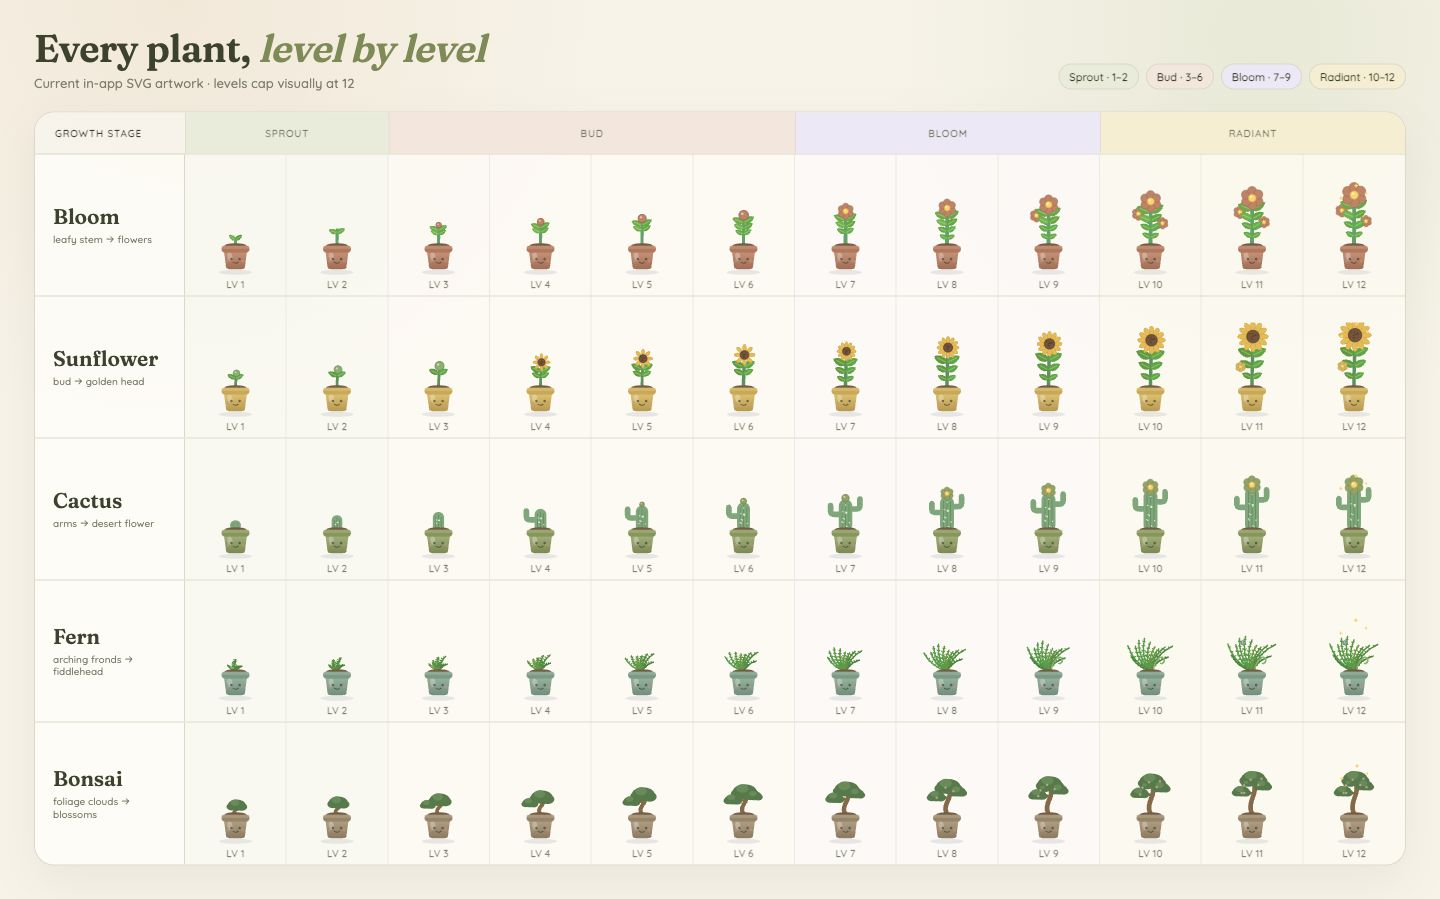
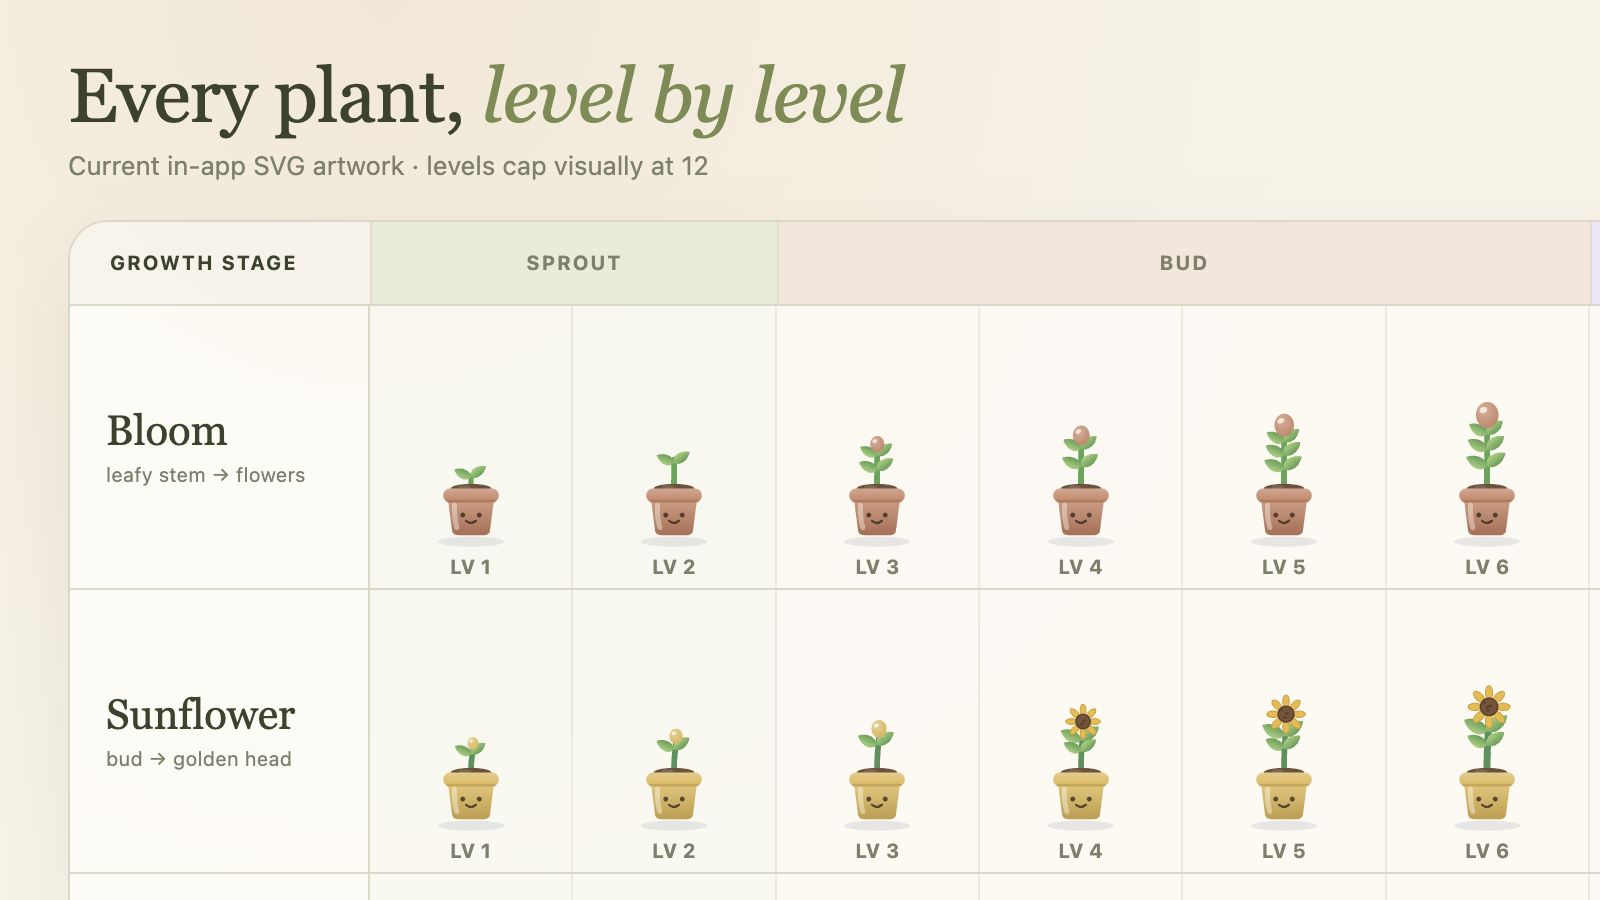
iOS: real side margins — the garden peek was secretly full-bleeding the page
The page gutter never rendered: garden peek's HStack (three fixed 74pt
plants + interleaved Spacers, each adding incompressible 24pt spacing,
plus card padding) demanded ~402pt minimum — exactly the screen. SwiftUI
centered the overflowing VStack, so every padding value looked like zero
and margin tweaks silently did nothing.

Peek columns are flexible now (.frame(maxWidth: .infinity), spacing 8),
and the page gutter is 22pt across all tabs, sheets and the tab bar.
Verified by pixel measurement: content starts at 23pt, cards at 22.7pt.

diff --git a/ios/Shared/PlantArt.swift b/ios/Shared/PlantArt.swift
@@ -172,6 +172,22 @@ struct PlantPainter {
         ctx.fill(hl.applying(rot), with: .color(Color(red: 1, green: 252 / 255, blue: 240 / 255).opacity(0.75)))
     }
 
+    private func bloomBud(_ ctx: GraphicsContext, x: Double, y: Double, r: Double, color: String) {
+        var cup = Path()
+        cup.move(to: CGPoint(x: x, y: y + r * 0.72))
+        cup.addQuadCurve(to: CGPoint(x: x - r * 0.72, y: y - r * 0.22),
+                         control: CGPoint(x: x - r * 0.95, y: y + r * 0.2))
+        cup.addQuadCurve(to: CGPoint(x: x, y: y + r * 0.52),
+                         control: CGPoint(x: x - r * 0.12, y: y + r * 0.02))
+        cup.addQuadCurve(to: CGPoint(x: x + r * 0.78, y: y - r * 0.2),
+                         control: CGPoint(x: x + r * 0.18, y: y + r * 0.02))
+        cup.addQuadCurve(to: CGPoint(x: x, y: y + r * 0.72),
+                         control: CGPoint(x: x + r * 0.96, y: y + r * 0.25))
+        cup.closeSubpath()
+        ctx.fill(cup, with: .color(Color(hex: "#67A84F")))
+        bud(ctx, x: x, y: y, r: r, color: color)
+    }
+
     private func sparkle(_ ctx: GraphicsContext, x: Double, y: Double, r: Double) {
         var p = Path()
         p.move(to: CGPoint(x: x, y: y - r))
@@ -193,55 +209,87 @@ struct PlantPainter {
     // MARK: species
 
     private func drawBloom(_ ctx: GraphicsContext, _ L: Int, _ c: String, _ rnd: inout PlantRandom) {
-        let h = L == 1 ? 9.0 : min(14 + Double(L) * 5.2, 76)
-        let lean = (rnd.next() - 0.5) * 5
+        // Deliberate keyframes make every couple of levels feel like a real new stage:
+        // sprout → leafy shoot → glossy bud → open flower → branching bouquet.
+        let heights: [Double] = [0, 10, 23, 32, 39, 47, 55, 60, 65, 69, 72, 74, 76]
+        let h = heights[L]
+        let lean = L == 1 ? 0 : (rnd.next() - 0.5) * 2.4
         let topX = CX + lean, topY = SOIL - h
-        let stemCol = Color(hex: "#55A86C")
+        let stemCol = Color(hex: "#5AA653")
 
         if L >= 2 {
             var stem = Path()
             stem.move(to: CGPoint(x: CX, y: SOIL))
-            stem.addCurve(to: CGPoint(x: topX, y: topY),
-                          control1: CGPoint(x: CX, y: SOIL - h * 0.45),
-                          control2: CGPoint(x: topX, y: SOIL - h * 0.6))
-            strokePath(ctx, stem, stemCol, L >= 7 ? 6 : 5)
-        }
-        if L >= 9 {
-            let sy = SOIL - h * 0.52
-            var p = Path()
-            p.move(to: CGPoint(x: CX - 1, y: sy))
-            p.addQuadCurve(to: CGPoint(x: CX - 19, y: sy - 13), control: CGPoint(x: CX - 13, y: sy - 6))
-            strokePath(ctx, p, stemCol, 4)
-            flower(ctx, x: CX - 19, y: sy - 15, r: 6.4, color: c)
+            stem.addCurve(to: CGPoint(x: topX, y: topY + 1),
+                          control1: CGPoint(x: CX, y: SOIL - h * 0.42),
+                          control2: CGPoint(x: topX, y: SOIL - h * 0.7))
+            strokePath(ctx, stem, stemCol, L >= 7 ? 5.4 : 4.6)
         }
         if L >= 10 {
-            let sy = SOIL - h * 0.34
-            var p = Path()
-            p.move(to: CGPoint(x: CX + 1, y: sy))
-            p.addQuadCurve(to: CGPoint(x: CX + 19, y: sy - 10), control: CGPoint(x: CX + 13, y: sy - 4))
-            strokePath(ctx, p, stemCol, 4)
-            flower(ctx, x: CX + 19, y: sy - 12, r: 5.6, color: c)
+            let leftY = SOIL - h * 0.55
+            let rightY = SOIL - h * 0.42
+            let sideGrow = Double(L - 10) * 0.7
+            var left = Path()
+            left.move(to: CGPoint(x: CX - 1, y: leftY))
+            left.addQuadCurve(to: CGPoint(x: CX - 22, y: leftY - 14),
+                              control: CGPoint(x: CX - 13, y: leftY - 5))
+            strokePath(ctx, left, stemCol, 3.8)
+            flower(ctx, x: CX - 23, y: leftY - 16, r: 5.8 + sideGrow, color: c)
+
+            var right = Path()
+            right.move(to: CGPoint(x: CX + 1, y: rightY))
+            right.addQuadCurve(to: CGPoint(x: CX + 22, y: rightY - 13),
+                               control: CGPoint(x: CX + 13, y: rightY - 4))
+            strokePath(ctx, right, stemCol, 3.8)
+            flower(ctx, x: CX + 23, y: rightY - 15, r: 5.3 + sideGrow, color: c)
+        }
+        if L >= 12 {
+            let by = topY + 20
+            var leftBudStem = Path()
+            leftBudStem.move(to: CGPoint(x: CX - 4, y: by + 10))
+            leftBudStem.addQuadCurve(to: CGPoint(x: CX - 29, y: by - 2),
+                                     control: CGPoint(x: CX - 20, y: by + 4))
+            strokePath(ctx, leftBudStem, stemCol, 2.8)
+            ctx.fill(Path(ellipseIn: CGRect(x: CX - 32.6, y: by - 5.6, width: 5.2, height: 5.2)),
+                     with: .color(shade(c, 8)))
+
+            var rightBudStem = Path()
+            rightBudStem.move(to: CGPoint(x: CX + 4, y: by + 7))
+            rightBudStem.addQuadCurve(to: CGPoint(x: CX + 29, y: by - 5),
+                                      control: CGPoint(x: CX + 21, y: by + 2))
+            strokePath(ctx, rightBudStem, stemCol, 2.8)
+            ctx.fill(Path(ellipseIn: CGRect(x: CX + 27.6, y: by - 8.4, width: 4.8, height: 4.8)),
+                     with: .color(shade(c, 8)))
         }
         if L == 1 {
             var stem = Path()
             stem.move(to: CGPoint(x: CX, y: SOIL))
             stem.addLine(to: CGPoint(x: CX, y: SOIL - 9))
-            strokePath(ctx, stem, stemCol, 4.5)
-            leaf(ctx, x: CX, y: SOIL - 8, len: 13, ang: -148, hue: 103, light: 44)
-            leaf(ctx, x: CX, y: SOIL - 8, len: 13, ang: -32, hue: 112, light: 40)
+            strokePath(ctx, stem, stemCol, 4.2)
+            leaf(ctx, x: CX, y: SOIL - 8, len: 14.5, ang: -150, hue: 103, light: 44)
+            leaf(ctx, x: CX, y: SOIL - 8, len: 14.5, ang: -30, hue: 112, light: 40)
         } else {
-            let pairs = min(1 + Int(Double(L) / 2.6), 4)
+            let pairs = L <= 2 ? 1 : L <= 4 ? 2 : L <= 8 ? 3 : 4
+            let positions: [Double] = pairs == 1 ? [0.83]
+                : pairs == 2 ? [0.42, 0.78]
+                : pairs == 3 ? [0.3, 0.54, 0.76]
+                : [0.25, 0.43, 0.61, 0.77]
             for i in 0..<pairs {
-                let t = 0.78 - Double(i) * 0.2
+                let t = positions[i]
                 let y = SOIL - h * t
-                let x = CX + lean * (1 - t) * 0.6
-                let len = min(12 + Double(L) * 1.15, 24) * (1 - Double(i) * 0.12)
-                leaf(ctx, x: x, y: y, len: len, ang: 180 + 34 + rnd.next() * 8, hue: 100 + rnd.next() * 18, light: 42 + rnd.next() * 6)
-                leaf(ctx, x: x, y: y, len: len, ang: -(34 + rnd.next() * 8), hue: 100 + rnd.next() * 18, light: 42 + rnd.next() * 6)
+                let x = CX + lean * t
+                let len = (13.5 + min(Double(L) * 0.72, 6.5)) * (1 - Double(i) * 0.045)
+                leaf(ctx, x: x, y: y, len: len, ang: 210 + Double(i) * 2.5, hue: 105, light: 43)
+                leaf(ctx, x: x, y: y, len: len, ang: -(30 + Double(i) * 2.5), hue: 110, light: 43)
             }
         }
-        if L >= 3 && L < 7 { bud(ctx, x: topX, y: topY - 2, r: 4.2 + Double(L - 3) * 1.1, color: c) }
-        if L >= 7 { flower(ctx, x: topX, y: topY - 3, r: 8 + Double(L - 7) * 0.9, color: c) }
+        if L >= 3 && L < 7 {
+            bloomBud(ctx, x: topX, y: topY - 2, r: 6.4 + Double(L - 3) * 1.3, color: c)
+        }
+        if L >= 7 {
+            let flowerSizes: [Double] = [8.5, 11.2, 12.1, 13, 13.8, 14.5]
+            flower(ctx, x: topX, y: topY - 3, r: flowerSizes[L - 7], color: c)
+        }
         sparkles(ctx, topX: topX, topY: topY, L: L)
     }
 

diff --git a/tmp/bloom-redesign.html b/tmp/bloom-redesign.html
@@ -1,0 +1,105 @@
+<!doctype html>
+<html lang="en">
+<head>
+  <meta charset="utf-8">
+  <title>Bloom flower redesign</title>
+  <style>
+    @font-face {
+      font-family: Fraunces;
+      src: url("/ios/Bloom/Fonts/Fraunces-Regular.ttf");
+    }
+    @font-face {
+      font-family: Quicksand;
+      src: url("/ios/Bloom/Fonts/Quicksand-Medium.ttf");
+    }
+    * { box-sizing: border-box; }
+    html, body { margin: 0; min-height: 100%; }
+    body {
+      min-width: 1120px;
+      min-height: 720px;
+      padding: 42px 46px;
+      background:
+        radial-gradient(circle at 10% 8%, rgba(236, 215, 188, .34), transparent 30%),
+        radial-gradient(circle at 88% 6%, rgba(206, 221, 185, .34), transparent 27%),
+        #faf6ed;
+      color: #3d452f;
+      font-family: Quicksand, system-ui, sans-serif;
+    }
+    header { margin-bottom: 38px; }
+    h1 {
+      margin: 0;
+      font: 36px/1 Fraunces, Georgia, serif;
+    }
+    h1 em { color: #7c8b4f; font-weight: 400; }
+    p {
+      margin: 9px 0 0;
+      color: #83816f;
+      font-size: 14px;
+    }
+    .progression {
+      display: grid;
+      grid-template-columns: repeat(7, 1fr);
+      align-items: end;
+      min-height: 510px;
+      padding: 32px 18px 26px;
+      border: 1px solid #ded8c6;
+      border-radius: 24px;
+      background: rgba(255, 253, 248, .86);
+      box-shadow: 0 22px 55px rgba(70, 67, 48, .08);
+    }
+    .stage {
+      position: relative;
+      display: flex;
+      flex-direction: column;
+      align-items: center;
+      justify-content: flex-end;
+      min-width: 0;
+    }
+    .stage-label {
+      position: absolute;
+      top: 0;
+      color: #807c6e;
+      font-size: 14px;
+      font-weight: 700;
+      letter-spacing: .05em;
+      text-transform: uppercase;
+    }
+    .art {
+      display: flex;
+      align-items: end;
+      justify-content: center;
+      height: 365px;
+    }
+    .plant { display: block; }
+    .caption {
+      margin-top: -4px;
+      color: #6e735d;
+      font: 18px Fraunces, Georgia, serif;
+    }
+  </style>
+</head>
+<body>
+  <header>
+    <h1>Bloom’s new <em>growth story</em></h1>
+    <p>Reference-inspired keyframes using Bloom’s existing lightweight SVG renderer</p>
+  </header>
+  <main class="progression" id="progression"></main>
+  <script type="module">
+    import { plantSVG } from "/js/plant.js";
+
+    const levels = [1, 2, 4, 6, 8, 10, 12];
+    const captions = ["Sprout", "Shoot", "Young bud", "Full bud", "First bloom", "Bouquet", "Radiant"];
+    document.querySelector("#progression").innerHTML = levels.map((level, index) => `
+      <section class="stage">
+        <div class="stage-label">Level ${level}</div>
+        <div class="art">${plantSVG({
+          id: "bloom-redesign",
+          species: "bloom",
+          color: "#D57B5B",
+        }, level, 148)}</div>
+        <div class="caption">${captions[index]}</div>
+      </section>
+    `).join("");
+  </script>
+</body>
+</html>

diff --git a/ios/Bloom/TodayView.swift b/ios/Bloom/TodayView.swift
@@ -68,7 +68,7 @@ struct TodayView: View {
                 gardenPeek
                 upNextCard(today: today)
             }
-            .padding(.horizontal, 16)
+            .padding(.horizontal, 22)
             .padding(.top, 14)
             .padding(.bottom, 28)
         }
@@ -282,8 +282,9 @@ struct TodayView: View {
             if topSkills.isEmpty {
                 EmptyState(icon: "pot", text: "No plants yet — add some time above or visit the garden.")
             } else {
-                HStack(alignment: .bottom, spacing: 24) {
-                    Spacer(minLength: 0)
+                // flexible columns — fixed-width children here once forced the whole
+                // page to overflow its side margins (the VStack min-width trap)
+                HStack(alignment: .bottom, spacing: 8) {
                     ForEach(Array(topSkills)) { sk in
                         let lv = store.levelOf(sk.id)
                         VStack(spacing: 4) {
@@ -293,11 +294,14 @@ struct TodayView: View {
                                 Text(sk.name).font(.quicksandBold(12))
                             }
                             .foregroundColor(theme.inkStrong)
+                            .lineLimit(1)
                             Text("Lv \(lv.level) · \(fmtMin(store.weekMinutes(sk.id))) this wk")
                                 .font(.quicksand(10.5)).foregroundColor(theme.muted)
+                                .lineLimit(1)
+                                .minimumScaleFactor(0.8)
                         }
+                        .frame(maxWidth: .infinity)
                         .onTapGesture { switchTab(.garden) }
-                        Spacer(minLength: 0)
                     }
                 }
             }

diff --git a/ios/Bloom/GardenView.swift b/ios/Bloom/GardenView.swift
@@ -71,7 +71,7 @@ struct GardenView: View {
 
                 keepsakeShelf
             }
-            .padding(.horizontal, 16)
+            .padding(.horizontal, 22)
             .padding(.top, 14)
             .padding(.bottom, 28)
         }
@@ -293,10 +293,10 @@ struct SkillDetailsView: View {
                         Text("\(lv.need - lv.into) XP to level \(lv.level + 1) — that's ~\(fmtMin(lv.need - lv.into)) of focus")
                             .font(.quicksand(11.5)).foregroundColor(theme.muted)
                     }
-                    .padding(.horizontal, 16)
+                    .padding(.horizontal, 22)
 
                     TierStrip(store: store, tier: store.tier(sk.id), capLabel: "\(sk.name) now", plantName: sk.name)
-                        .padding(.horizontal, 16)
+                        .padding(.horizontal, 22)
 
                     VStack(alignment: .leading, spacing: 8) {
                         Text("LAST 14 DAYS").font(.quicksandBold(10)).kerning(1).foregroundColor(theme.muted)
@@ -328,7 +328,7 @@ struct SkillDetailsView: View {
                             }
                         }
                     }
-                    .padding(.horizontal, 16)
+                    .padding(.horizontal, 22)
 
                     HStack(spacing: 8) {
                         Button("Uproot") { confirmUproot = true }
@@ -420,7 +420,7 @@ struct PlantBookView: View {
                     .card(padding: 12)
                 }
             }
-            .padding(.horizontal, 16)
+            .padding(.horizontal, 22)
             .padding(.bottom, 24)
         }
         .background(theme.bg)

diff --git a/js/plant.js b/js/plant.js
@@ -113,9 +113,9 @@ function drawBloom(L, c, rnd, P) {
       g += leaf(x, y, len, -(30 + i * 2.5), 110, 43, P);
     }
   }
-  if (L >= 3 && L < 7) g += bloomBud(topX, topY - 2, 5.2 + (L - 3) * 1.05, c, P);
+  if (L >= 3 && L < 7) g += bloomBud(topX, topY - 2, 6.4 + (L - 3) * 1.3, c, P);
   if (L >= 7) {
-    const flowerSizes = [7.2, 9.2, 10.4, 11.6, 12.7, 13.8];
+    const flowerSizes = [8.5, 11.2, 12.1, 13, 13.8, 14.5];
     g += flower(topX, topY - 3, flowerSizes[L - 7], c, P);
   }
   g += sparkles(topX, topY, L);

diff --git a/ios/Bloom/FocusView.swift b/ios/Bloom/FocusView.swift
@@ -31,7 +31,7 @@ struct FocusView: View {
                 manualCard
                 historyCard
             }
-            .padding(.horizontal, 16)
+            .padding(.horizontal, 22)
             .padding(.top, 14)
             .padding(.bottom, 28)
         }

diff --git a/ios/Bloom/RootView.swift b/ios/Bloom/RootView.swift
@@ -140,7 +140,7 @@ struct RootView: View {
                 .overlay(Capsule(style: .continuous).stroke(theme.line, lineWidth: 1))
                 .shadow(color: .black.opacity(theme.isDark ? 0.4 : 0.10), radius: 12, y: 4)
         )
-        .padding(.horizontal, 14)
+        .padding(.horizontal, 20)
         .padding(.bottom, 2)
     }
 }

diff --git a/ios/Bloom/SettingsView.swift b/ios/Bloom/SettingsView.swift
@@ -160,7 +160,7 @@ struct SettingsView: View {
                 .padding(.top, 16)
                 .padding(.bottom, 24)
             }
-            .padding(.horizontal, 18)
+            .padding(.horizontal, 22)
         }
         .background(theme.bg)
         .alert("Start completely fresh? Tasks, notes, garden — everything is wiped.", isPresented: $confirmReset) {

diff --git a/ios/Bloom/SkillEditorView.swift b/ios/Bloom/SkillEditorView.swift
@@ -107,7 +107,7 @@ struct SkillEditorView: View {
                 .padding(.top, 8)
                 .padding(.bottom, 24)
             }
-            .padding(.horizontal, 18)
+            .padding(.horizontal, 22)
         }
         .background(theme.bg)
         .onAppear {

diff --git a/ios/Bloom/TasksView.swift b/ios/Bloom/TasksView.swift
@@ -119,7 +119,7 @@ struct TasksView: View {
                 }
                 .card()
             }
-            .padding(.horizontal, 16)
+            .padding(.horizontal, 22)
             .padding(.top, 14)
             .padding(.bottom, 28)
         }